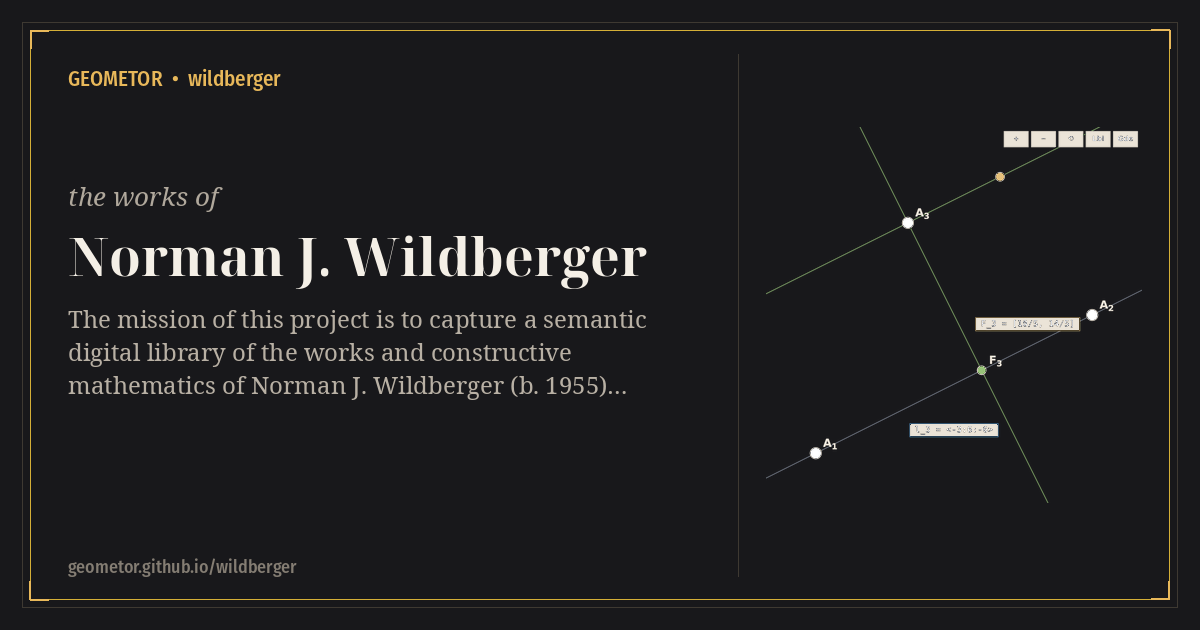
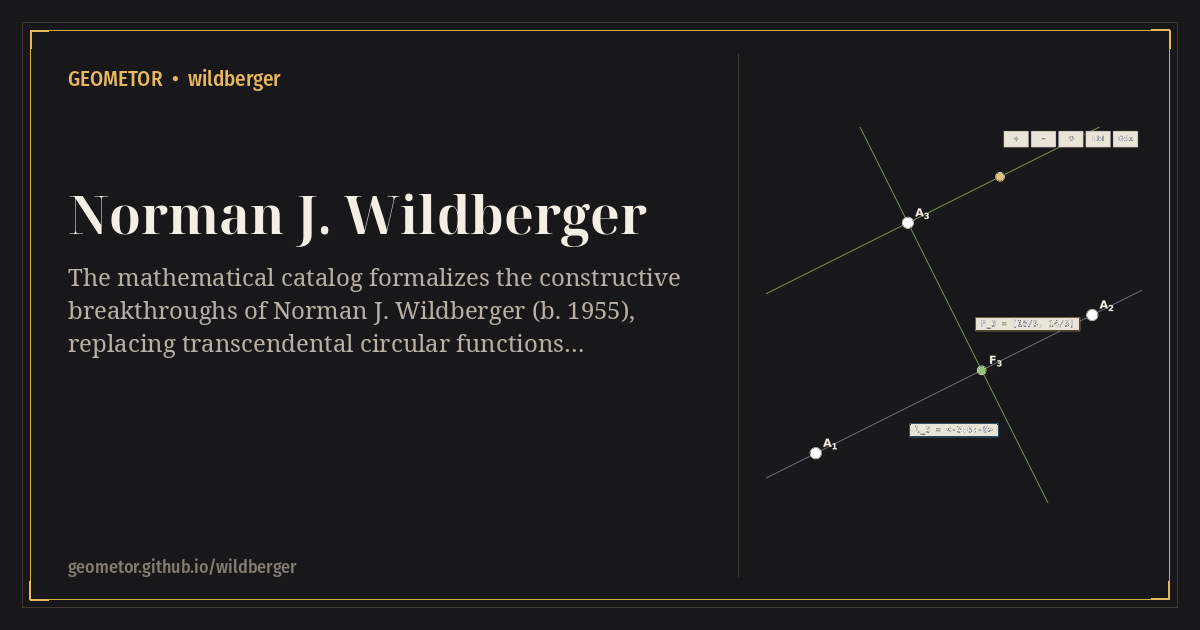
docs: add construction hero images, elevate English titles with native title tracks, and standardize track menus

Changed region(s): [[0.0617, 0.3016, 0.5858, 0.573], [0.0617, 0.6032, 0.5242, 0.6333]]

diff --git a/README.rst b/README.rst
@@ -3,6 +3,11 @@ GEOMETOR • wildberger
 
 **Visit the Online Archive:** https://geometor.github.io/wildberger/
 
+.. image:: docsrc/topics/w-01/w-01.svg
+   :alt: GEOMETOR • wildberger featured geometric construction
+   :target: https://geometor.github.io/wildberger/
+   :align: center
+
 **Norman J. Wildberger • Divine Proportions & Rational Trigonometry • semantic digital archive**
 
 Mission
